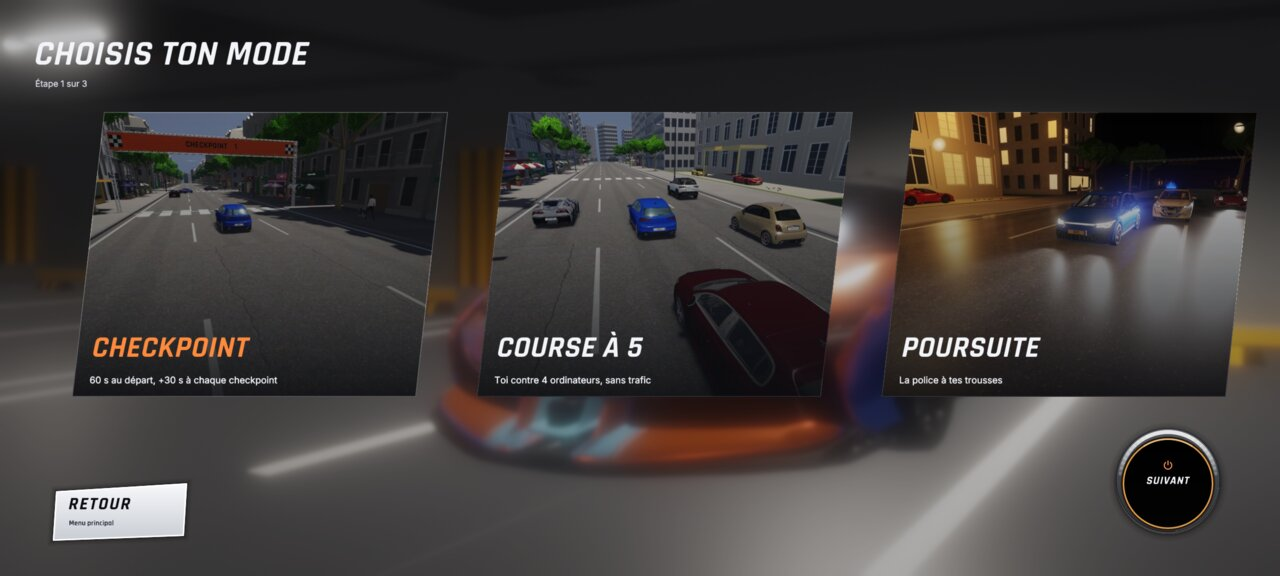
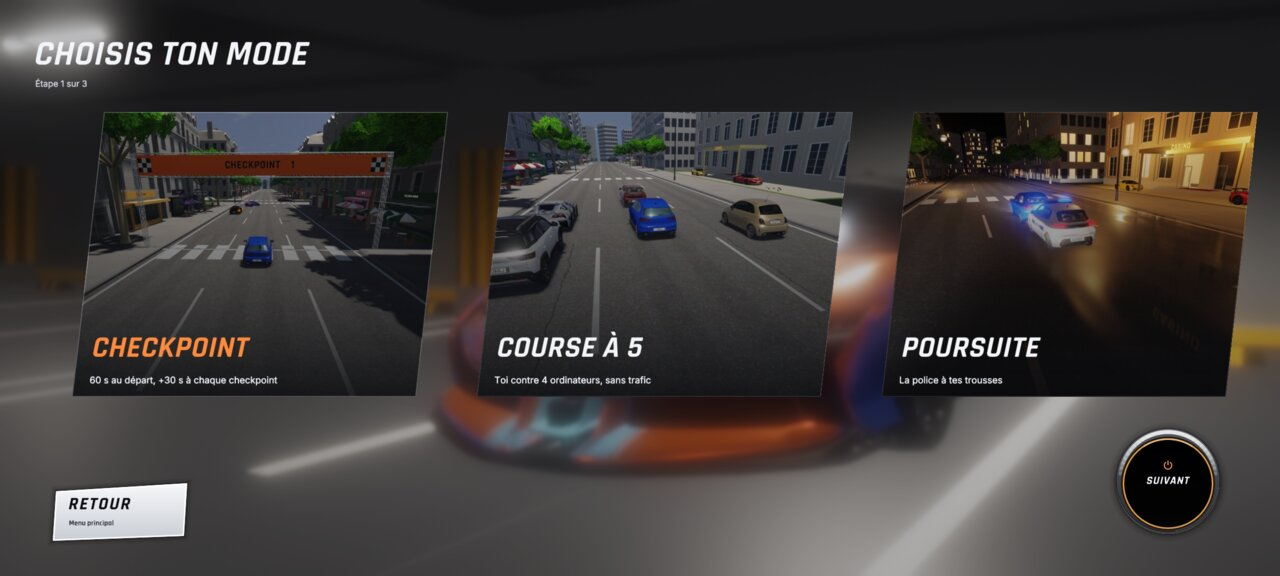
WFS-562 : revue du lead dev : journal des tests CPU, capture du choix du mode refaite (Claude, agent dev3d (01UY1Vv3kc))
Claude-Session: https://claude.ai/code/session_01UY1Vv3kcVfmbaBKf14LPpJ

diff --git a/qa/pr/WFS-562/pr.md b/qa/pr/WFS-562/pr.md
@@ -12,7 +12,12 @@ Agent : Claude, agent dev3d (01UY1Vv3kc)
   - **Fond (RG-07)** : voile du fond flouté de 62 % à **22 %** ; luminosité moyenne du fond hors cartes mesurée sur la capture 2400 × 1080 : **25,7 %** (≥ 25 %), ≈ 13 % avant (calcul : même scène, voile 0,62).
   - **Accroches hors zone, annoncées** : `src/render/renderer.*` + `shaders/ui.frag` (≈ 30 lignes : l'interface sait afficher une photo, binding 1 du jeu de la police, inutilisé jusqu'ici) ; `src/game/game.*` (2 lignes, banc seulement : image sans interface, point visé de la caméra de vitrine) ; `portique_depart_modele.*` (`platine` devient publique) ; `desktop_main.cpp` (3 bancs).
 - **Comment c'est vérifié** : compilation complète ; **155 tests CPU réussis** dont le nouveau `test_portique_checkpoint` (mesures ±1 % : largeur, hauteur libre 5,2 m, bâche 1,29 m, œillets Ø 24 mm au pas ≤ 0,5 m, ligne 0,30 m ; aucun triangle dégénéré ni inversé ; budget) ; bancs `portique-checkpoint` (Ville et Corniche, jour et nuit, 16 captures), `modes-ecran` (3 cartes FR / EN + repli), `parcours` et `vie` avant / après.
+- **Accord du PO** pour l'accroche du rendu hors zone (`renderer.*`, `ui.frag`) : section Suivi de `regles-de-gestion/WFS-562.md` (commit 97672604 sur `main`).
 - **Limites et risques** : la Corniche a son 1er checkpoint en courbe serrée (ligne peinte seule, règle WFS-139 inchangée) ; textes 2D de course (« CHECKPOINT N +30 s ») : WFS-567 ; le portique de départ n'a pas changé (hors périmètre). Validation 🟡 par l'utilisateur sur son téléphone. Avis de l'agent 3D demandé (RG-08).
+
+## Tests CPU
+
+`bash tools/qa/tests_cpu.sh build` sur la branche synchronisée avec `main` (14634dad) : **155 test(s) réussi(s) en 437 s**, 0 échec, dont le nouveau `test_portique_checkpoint` (mesures ±1 %, qualité des maillages, budget, ligne seule en courbe serrée). Journal complet : [`qa/pr/WFS-562/tests-cpu.log`](https://github.com/wlfaleh/waforspeed_mobile/blob/feature/waforspeed-562/qa/pr/WFS-562/tests-cpu.log).
 
 ## Captures pour le lead dev
 
